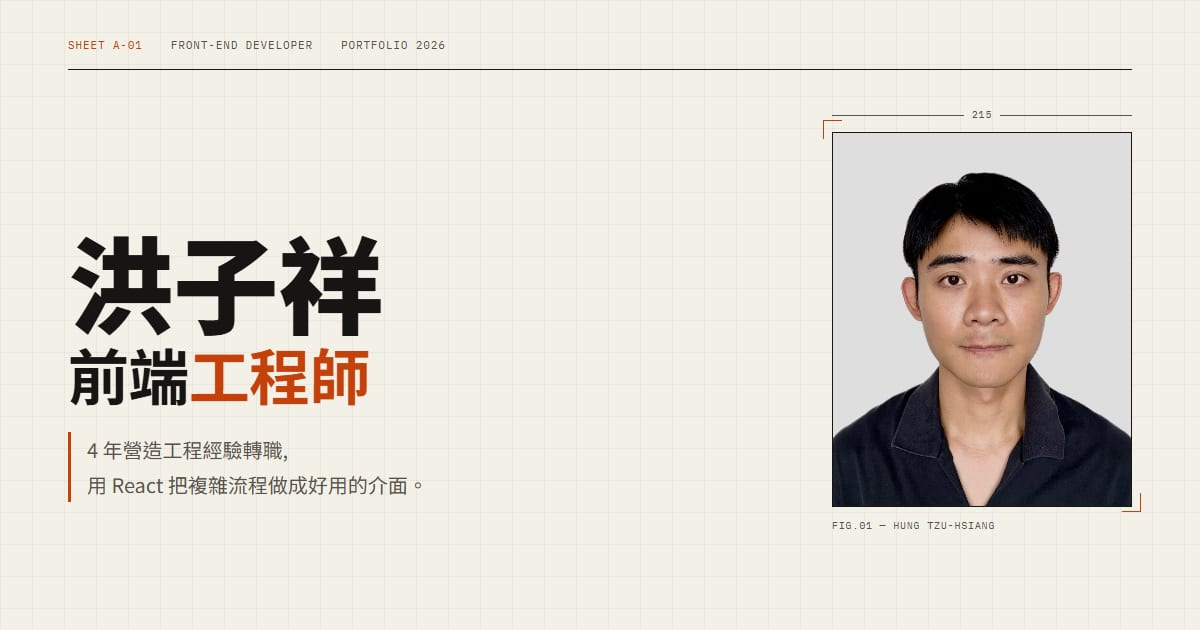
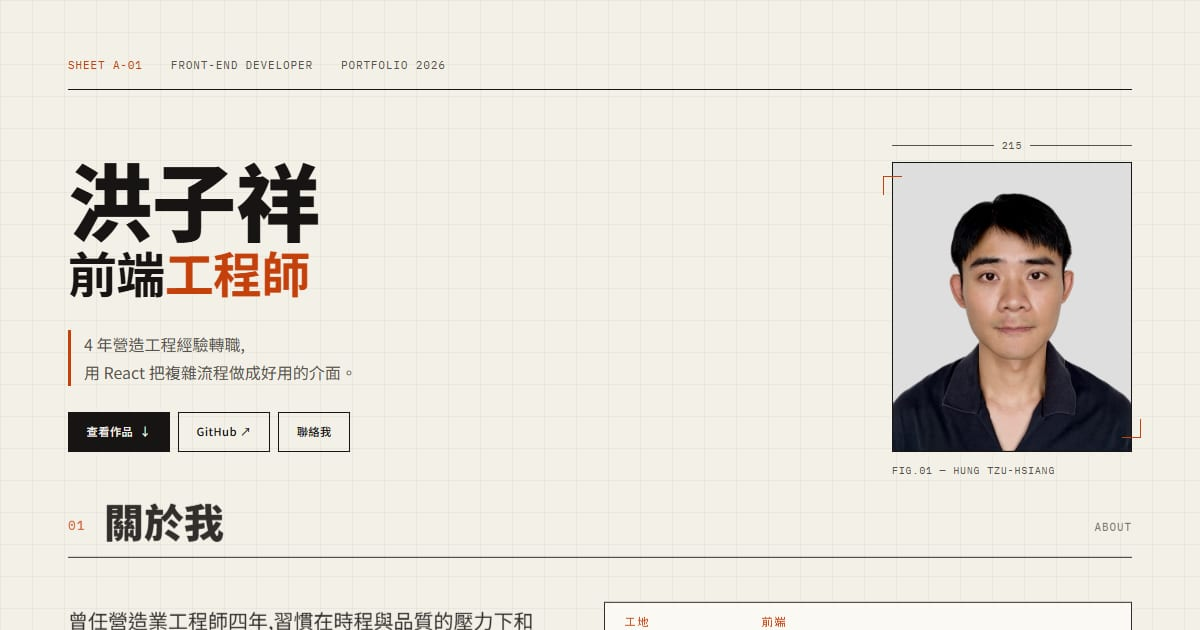
Refine hero scale and alignment, even section spacing, bridge table
- Scale hero photo and text to 0.8; photo height follows the text block
- Space above About matches the other sections
- Bridge table: shared columns, justified labels, 1:1 arrow spacing, crisp 1px arrows
- Refresh OG preview image

diff --git a/style.css b/style.css
@@ -60,27 +60,27 @@ a { color: inherit; }
 .btn i { font-style: normal; }
 
 /* ===== Hero ===== */
-.hero { padding: 56px 0 72px; }
+.hero { padding: 56px 0 22px; } /* 下方間距與各區塊相同 */
 .hero-meta { display: flex; gap: 28px; flex-wrap: wrap; font-size: 11px; color: var(--mute); padding-bottom: 14px; border-bottom: 1.5px solid var(--ink); }
 .hero-meta span:first-child { color: var(--accent); }
-.hero-main { display: grid; grid-template-columns: 1fr 300px; gap: 56px; align-items: stretch; padding: 64px 0 56px; }
+.hero-main { display: grid; grid-template-columns: 1fr 240px; gap: 56px; align-items: stretch; padding: 64px 0 56px; }
 /* 文字區塊對齊照片:標題貼齊照片上緣,按鈕貼齊照片下緣 */
 .hero-text { display: flex; flex-direction: column; }
 .hero-text .lead { margin-top: auto; }
-.cta { display: flex; flex-wrap: wrap; gap: 10px; }
-.cta .btn { margin: 0; }
-.hero h1 { margin: 0 0 28px; line-height: 1; font-weight: 900; letter-spacing: -0.02em; }
-.hero h1 .name { display: block; font-size: clamp(45px, 8.8vw, 106px); margin-top: -0.075em; /* 抵銷字身上方留白,讓字頂貼齊照片 */ }
-.hero h1 .role { display: block; font-size: clamp(29px, 5.1vw, 61px); margin-top: 10px; font-weight: 700; }
+.cta { display: flex; flex-wrap: wrap; gap: 8px; }
+.cta .btn { margin: 0; font-size: 11.2px; padding: 9.6px 17.6px; gap: 6.4px; }
+.hero h1 { margin: 0 0 22px; line-height: 1; font-weight: 900; letter-spacing: -0.02em; }
+.hero h1 .name { display: block; font-size: clamp(36px, 7.04vw, 85px); margin-top: -0.075em; /* 抵銷字身上方留白,讓字頂貼齊照片 */ }
+.hero h1 .role { display: block; font-size: clamp(23px, 4.08vw, 49px); margin-top: 8px; font-weight: 700; }
 .hero h1 em { font-style: normal; color: var(--accent); }
-.lead { font-size: clamp(16px, 1.9vw, 20px); color: var(--mute); margin: 0 0 32px; max-width: 520px; padding-left: 16px; border-left: 3px solid var(--accent); }
-.portrait { margin: 0; position: relative; }
-.portrait-frame { position: relative; aspect-ratio: 4 / 5; overflow: hidden; border: 1.5px solid var(--ink); background: var(--card); }
+.lead { font-size: clamp(13px, 1.52vw, 16px); color: var(--mute); margin: 0 0 26px; max-width: 420px; padding-left: 13px; border-left: 3px solid var(--accent); }
+.portrait { margin: 0; position: relative; display: flex; flex-direction: column; }
+.portrait-frame { position: relative; flex: 1; min-height: 240px; overflow: hidden; border: 1.5px solid var(--ink); background: var(--card); }
 .portrait-frame img { width: 100%; height: 100%; object-fit: cover; object-position: center top; }
 /* 裁切角標 */
 .portrait::before, .portrait::after { content: ""; position: absolute; width: 18px; height: 18px; border: 1.5px solid var(--accent); z-index: 1; }
 .portrait::before { top: 14px; left: -9px; border-right: 0; border-bottom: 0; }
-.portrait::after { bottom: 22px; right: -9px; border-left: 0; border-top: 0; }
+.portrait::after { bottom: 14px; right: -9px; border-left: 0; border-top: 0; }
 /* 尺寸標註線 */
 .dim-x { position: absolute; left: 0; right: 0; bottom: 100%; display: flex; align-items: center; gap: 8px; font-size: 10px; color: var(--mute); margin-bottom: 8px; }
 .dim-x::before, .dim-x::after { content: ""; flex: 1; height: 1px; background: var(--mute); }
@@ -104,14 +104,16 @@ section { padding: 22px 0; }
 /* ===== 關於 ===== */
 .about-grid { display: grid; grid-template-columns: 1fr 1.1fr; gap: 56px; align-items: start; }
 .about { margin: 0; font-size: clamp(17px, 1.8vw, 20px); line-height: 1.9; }
-.bridge { border: 1.5px solid var(--ink); background: var(--card); }
-.bridge-head { display: grid; grid-template-columns: 110px 1fr; gap: 0 48px; padding: 10px 18px; font-size: 11px; color: var(--accent); border-bottom: 1px solid var(--line); }
-.bridge-head span:last-child { padding-left: 4px; }
-.bridge-row { display: grid; grid-template-columns: 110px 40px 1fr; align-items: center; padding: 16px 18px; gap: 4px; }
+.bridge { display: grid; grid-template-columns: max-content 44px 1fr; border: 1.5px solid var(--ink); background: var(--card); }
+/* 每列共用同一組欄寬(subgrid):標籤 → 箭頭 → 說明,左右間距 1:1 */
+.bridge-head, .bridge-row { grid-column: 1 / -1; display: grid; grid-template-columns: subgrid; column-gap: 18px; align-items: center; padding: 16px 20px; }
+.bridge-head { padding-block: 10px; font-size: 11px; color: var(--accent); border-bottom: 1px solid var(--line); }
+.bridge-head span:last-child { grid-column: 3; }
 .bridge-row + .bridge-row { border-top: 1px dashed var(--line); }
-.bridge-row b { font-size: 15px; }
-.bridge-row i { height: 1px; background: var(--ink); position: relative; margin-right: 8px; }
-.bridge-row i::after { content: ""; position: absolute; right: -1px; top: -4px; border: 4.5px solid transparent; border-left: 7px solid var(--ink); border-right: 0; }
+.bridge-row b { font-size: 15px; white-space: nowrap; text-align: justify; text-align-last: justify; } /* 分散對齊:四字與五字標籤同寬 */
+/* 箭頭用 border 繪製,寬度會對齊像素,四條線粗細一致 */
+.bridge-row i { height: 0; border-top: 1px solid var(--ink); position: relative; }
+.bridge-row i::after { content: ""; position: absolute; right: -1px; top: -5px; border: 4.5px solid transparent; border-left: 7px solid var(--ink); border-right: 0; }
 .bridge-row span { color: var(--mute); font-size: 15px; line-height: 1.6; }
 
 /* ===== 技能 ===== */
@@ -194,7 +196,7 @@ section { padding: 22px 0; }
 
 /* ===== RWD ===== */
 @media (max-width: 900px) {
-  .hero-main { grid-template-columns: 1fr 200px; gap: 32px; }
+  .hero-main { grid-template-columns: 1fr 160px; gap: 32px; }
   .about-grid { grid-template-columns: 1fr; gap: 32px; }
   .skills { grid-template-columns: repeat(2, 1fr); }
   .sk:nth-child(3) { border-left: 0; }
@@ -210,11 +212,12 @@ section { padding: 22px 0; }
   .nav-links a { margin-left: 16px; font-size: 13px; }
   .logo { font-size: 0; gap: 0; }
   .logo-mark { font-size: 13px; }
-  .hero { padding-top: 32px; }
+  .hero { padding-top: 32px; padding-bottom: 16px; }
   .hero-meta { gap: 14px; }
   .hero-meta span:last-child { display: none; }
   .hero-main { grid-template-columns: 1fr; padding: 36px 0 36px; }
-  .portrait { order: -1; width: 150px; }
+  .portrait { order: -1; width: 120px; }
+  .portrait-frame { aspect-ratio: 4 / 5; flex: none; min-height: 0; }
   .portrait figcaption { position: static; white-space: normal; }
   .hero-text .lead { margin-top: 0; }
   .dim-x { display: none; }
@@ -227,7 +230,9 @@ section { padding: 22px 0; }
   .skills { grid-template-columns: 1fr; }
   .sk + .sk { border-left: 0; border-top: 1px solid var(--line); }
   .bridge-head { display: none; }
+  .bridge { display: block; }
   .bridge-row { grid-template-columns: 1fr; gap: 2px; }
+  .bridge-row b { text-align-last: auto; }
   .bridge-row i { display: none; }
   .case { margin-bottom: 72px; }
   .case-media, .case-rev .case-media { box-shadow: 6px 6px 0 var(--ink); }
